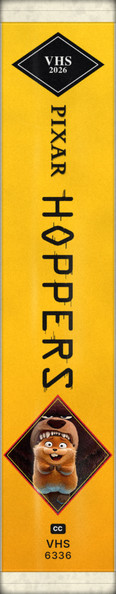
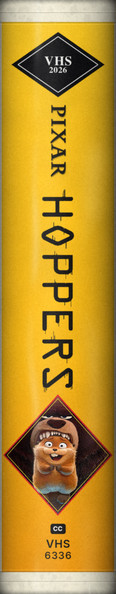
Clamshells: the whole spine reads as rounded plastic, not a flat face
Claude-Session: https://claude.ai/code/session_01RnhGoJvJQYqU1rpTHc7xo4

diff --git a/style.css b/style.css
@@ -258,10 +258,10 @@ h1.ticket img { display: block; margin: 0 auto; width: min(380px, 78vw); height:
 .spine.designed { background-size: 100% 100%; background-repeat: no-repeat; background-color: #111; }
 .spine.designed::after { background: linear-gradient(90deg, rgba(255,255,255,.06), transparent 14%, transparent 80%, rgba(0,0,0,.22)); }
 /* a Disney/Pixar clamshell: soft moulded plastic, so the ends roll over instead of meeting at a square corner */
-.spine.designed.clam { border-radius: 9px / 7px; }
+.spine.designed.clam { border-radius: 13px / 10px; }
 .spine.designed.clam::after { border-radius: inherit; background:
-  linear-gradient(90deg, rgba(255,255,255,.10), transparent 16%, transparent 78%, rgba(0,0,0,.22)),
-  linear-gradient(180deg, rgba(0,0,0,.16) 0, transparent 5px, transparent calc(100% - 6px), rgba(0,0,0,.22)); }
+  linear-gradient(90deg, rgba(0,0,0,.30) 0, rgba(0,0,0,.06) 9%, rgba(255,255,255,.10) 30%, transparent 55%, rgba(0,0,0,.10) 86%, rgba(0,0,0,.42) 100%),
+  linear-gradient(180deg, rgba(0,0,0,.16) 0, transparent 6px, transparent calc(100% - 7px), rgba(0,0,0,.22)); }
 body.designed-spine .vcr-respine { display: none; }
 .spine:hover, .spine:focus-visible { transform: translateY(-9px); filter: brightness(1.15); outline: none; }
 .spine:focus-visible { box-shadow: 0 0 0 2px var(--gold); }

diff --git a/spinegen/lib.py b/spinegen/lib.py
@@ -355,7 +355,12 @@ def finish_vhs(img, seed, kind='slip', wear=0.5, gloss=0.05, fade=0.0, warm=0.0,
             a = 1 - (1 - a) * (1 - gloss * band[..., None])
     else:  # clamshell
         # moulded plastic rounds away at both sides; the sleeve catches light in streaks
-        a *= (1 - 0.30 * np.clip(1 - dx / 9.0, 0, 1) ** 2)[..., None]
+        # the whole spine is a rounded moulding, not a flat face: it curves away to both long edges,
+        # so it darkens steadily toward them (more on the side away from the light) under a soft highlight
+        u = 2 * xn - 1
+        lit = rng.uniform(-0.25, -0.1)
+        a *= (1 - 0.16 * (u - lit) ** 2 - 0.30 * np.abs(u) ** 5 - 0.10 * np.clip(u, 0, 1) ** 2)[..., None]
+        a = 1 - (1 - a) * (1 - 0.10 * np.exp(-((u - lit) / 0.30) ** 2)[..., None])
         for xc, wd, st in ((rng.uniform(0.2, 0.42), 0.035, 1.0), (rng.uniform(0.55, 0.8), 0.09, 0.45)):
             band = np.exp(-((xn - xc - 0.03 * fbm(h, w, 260 * S, rng, 2)) / wd) ** 2)
             band *= np.clip(0.55 + 0.9 * fbm(h, w, 120 * S, rng, 2), 0, 1.3) * st

diff --git a/CLAUDE.md b/CLAUDE.md
@@ -30,7 +30,7 @@ One designed spine picture per tape, made in November 2026 with `spinegen/` (por
 - Catalogue numbers, sticker text and prices are invented. Malice uses the Castle Rock logo file because `films.json` has the wrong studio (Nelvana) for it.
 - Check new spines scaled to 250px tall; thin lettering fades at that size.
 - Rules Ian has set for spines: card wear must never show on the cassette inside the thumb notch (it is plastic; `finish_vhs(notch=...)` repaints it after the wear), the VHS mark and numbers always sit at the foot, and every spine has its title running down it (no title blocks set across the top; Girl in the Box and The Devil Wears Prada 2 were redone for this on 16 November 2026).
-- Disney and Pixar rule (Ian, 16 November 2026): every Disney or Pixar film gets the white clamshell, not a slipcase, laid out like the 1990s Disney clamshell spines (his reference photos): artwork the full length, a black diamond at the head, the studio logo reading down, the title in the film's own logo lettering, a character portrait in a red diamond near the foot, then CC, VHS and the number. Use `disney(...)` in `tapes.py` (currently Zootopia 2, Hoppers, Toy Story 5). A clamshell is a bigger box: its picture is drawn wider and 1188px tall (white plastic caps top and bottom, added by `finish_vhs(kind='clam')`) and saved at the same scale as the others, and `prepare()` in `app.js` sizes any spine picture taller than 560px from the picture itself, so these stand about 270px tall and 53px wide beside the 250px slipcases. The corners are rolled, not square (Ian's note): `.spine.designed.clam` in `style.css` rounds them and the picture shades into each corner. The head diamond holds plain type ("VHS 2026"); the "Classics" emblem from the reference is not recreated. Toy Story 5's title is the poster's own logo cut into its three pieces by colour (`ts_letters`, `ts_plate`) and laid along the spine as TOY, the red STORY plate, then the 5, the way the Toy Story tapes did it.
+- Disney and Pixar rule (Ian, 16 November 2026): every Disney or Pixar film gets the white clamshell, not a slipcase, laid out like the 1990s Disney clamshell spines (his reference photos): artwork the full length, a black diamond at the head, the studio logo reading down, the title in the film's own logo lettering, a character portrait in a red diamond near the foot, then CC, VHS and the number. Use `disney(...)` in `tapes.py` (currently Zootopia 2, Hoppers, Toy Story 5). A clamshell is a bigger box: its picture is drawn wider and 1188px tall (white plastic caps top and bottom, added by `finish_vhs(kind='clam')`) and saved at the same scale as the others, and `prepare()` in `app.js` sizes any spine picture taller than 560px from the picture itself, so these stand about 270px tall and 53px wide beside the 250px slipcases. The whole spine is rounded plastic, not a flat rectangular face (Ian's note): the picture is shaded as a curved moulding that falls away to both long edges, and `.spine.designed.clam` in `style.css` rounds the corners and adds the same roll-off. The head diamond holds plain type ("VHS 2026"); the "Classics" emblem from the reference is not recreated. Toy Story 5's title is the poster's own logo cut into its three pieces by colour (`ts_letters`, `ts_plate`) and laid along the spine as TOY, the red STORY plate, then the 5, the way the Toy Story tapes did it.
 - Look and sources: modelled on Ian's reference image of modern films given retro VHS box spines (title in the poster's own lettering, a framed picture at the head, studio logo, format mark and catalogue number at the foot, rental stickers, worn card). Studio logos and poster crops (including animated and comic characters) are welcome on spines; logos are placed from `logos/`, never redrawn. The typed-only "ZIPPORAH FILMS" (High School) and "UTOPIA" (The Sweet East), and the cast/director credit lines on some spines, were written from memory and may be wrong.
 - Five tapes have no logo file and carry a line of type instead: High School, The Sweet East, Louis C.K.: Ridiculous, Jeff Arcuri, Face/Off.
 - Not verified: that the "Re-mark spine" button is hidden on designed tapes (it only shows with the GitHub token saved, so it could not be seen in a test browser).
